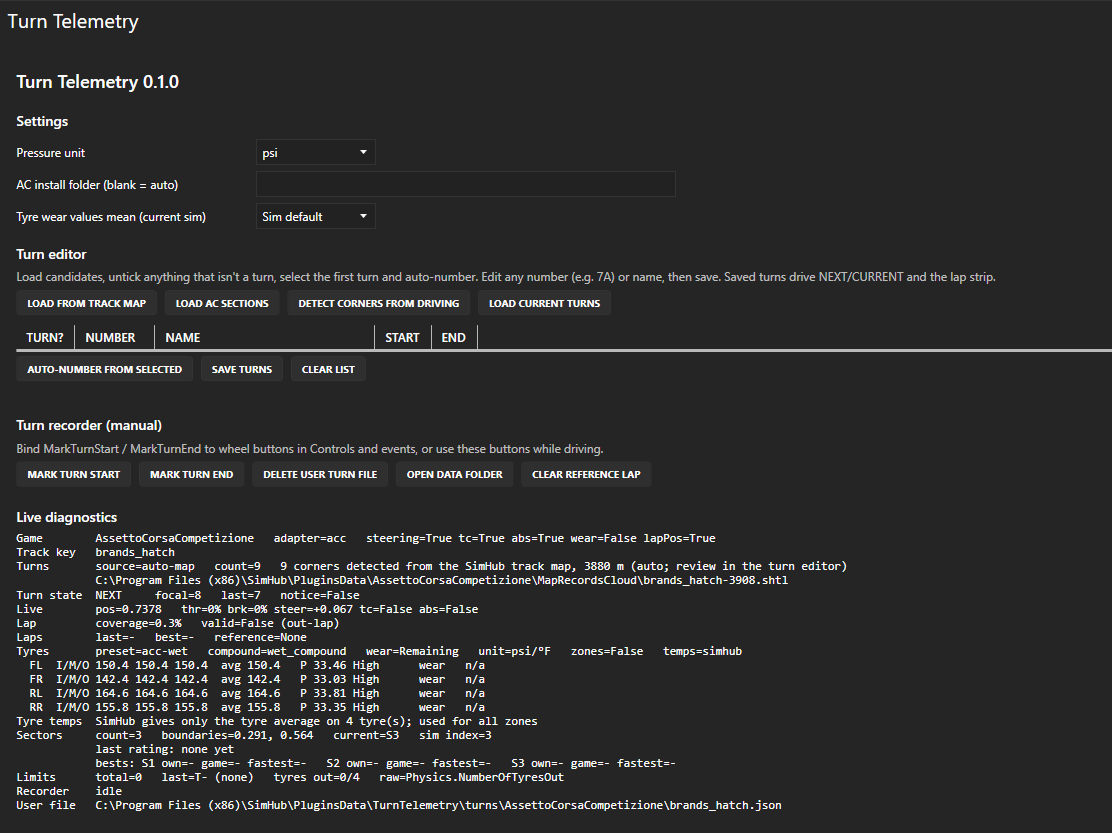
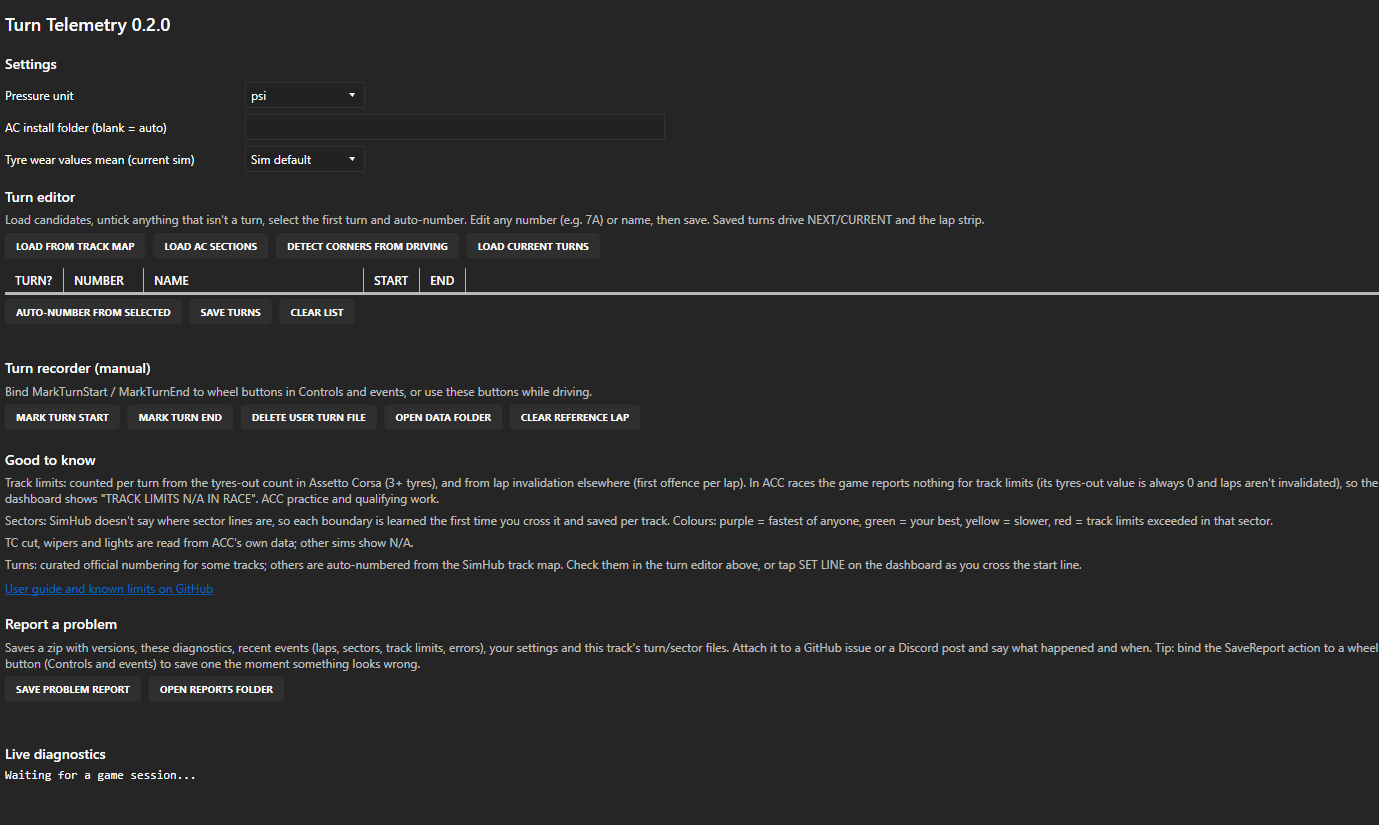
v0.2.1: problem reports
A "Save problem report" button (and SaveReport action for a wheel button)
writes a zip with versions, live diagnostics, the last 500 plugin events,
settings, the track's turn/sector files and Turn Telemetry's SimHub log
lines, with the Windows user name masked. Updated settings screenshot.

Changed region(s): [[0.0, 0.0, 1.0, 0.9697], [0.1835, 0.1818, 0.2446, 0.2121]]

diff --git a/plugin/TurnTelemetry/ReportWriter.cs b/plugin/TurnTelemetry/ReportWriter.cs
@@ -1,0 +1,118 @@
+using System;
+using System.Collections.Generic;
+using System.Diagnostics;
+using System.IO;
+using System.IO.Compression;
+using System.Linq;
+using System.Text;
+using Newtonsoft.Json;
+
+namespace TurnTelemetryHost
+{
+    /// <summary>
+    /// Writes a problem report (a zip) that users can attach to a GitHub issue or a Discord post: versions, the live
+    /// diagnostics, the recent event log, settings, this track's turn and sector files, and Turn Telemetry's lines from
+    /// SimHub's log. User-profile paths are masked; no other drivers' names are included.
+    /// </summary>
+    internal static class ReportWriter
+    {
+        private const int MaxSimHubLogLines = 400;
+
+        public static string ReportsFolder(TurnTelemetry plugin) => Path.Combine(plugin.UserRoot, "reports");
+
+        public static string Write(TurnTelemetry plugin)
+        {
+            var e = plugin.Engine;
+            var folder = ReportsFolder(plugin);
+            Directory.CreateDirectory(folder);
+            var path = Path.Combine(folder, $"TurnTelemetry-report-{DateTime.Now:yyyyMMdd-HHmmss}.zip");
+
+            var report = new StringBuilder();
+            report.AppendLine("Turn Telemetry problem report");
+            report.AppendLine($"Created       {DateTime.Now:yyyy-MM-dd HH:mm:ss}");
+            report.AppendLine($"Plugin        {typeof(TurnTelemetry).Assembly.GetName().Version.ToString(3)}");
+            report.AppendLine($"SimHub        {SimHubVersion()}");
+            report.AppendLine($"Windows       {Environment.OSVersion.VersionString}");
+            report.AppendLine();
+            report.AppendLine("What happened (please describe it in your issue or post, with the time it happened).");
+            report.AppendLine();
+            report.AppendLine("=== Live diagnostics ===");
+            report.AppendLine(SettingsControl.Diagnostics(e));
+            report.AppendLine("=== Recent events (oldest first) ===");
+            foreach (var line in e.Log.Snapshot()) report.AppendLine(line);
+
+            using (var zip = ZipFile.Open(path, ZipArchiveMode.Create))
+            {
+                Add(zip, "report.txt", report.ToString());
+                Add(zip, "settings.json", JsonConvert.SerializeObject(plugin.Settings, Formatting.Indented));
+                AddFile(zip, "turns-user-file.json", e.UserTurnFilePath);
+                AddFile(zip, "sectors.txt", e.SectorFilePath);
+                Add(zip, "simhub-log.txt", SimHubLogLines());
+            }
+            e.Log.Add("problem report saved: " + Path.GetFileName(path));
+            return path;
+        }
+
+        /// <summary>Opens Explorer with the report selected.</summary>
+        public static void Show(string path) => Process.Start("explorer.exe", $"/select,\"{path}\"");
+
+        private static void Add(ZipArchive zip, string name, string text)
+        {
+            using (var writer = new StreamWriter(zip.CreateEntry(name).Open(), new UTF8Encoding(false)))
+                writer.Write(Mask(text ?? ""));
+        }
+
+        private static void AddFile(ZipArchive zip, string name, string path)
+        {
+            if (!string.IsNullOrEmpty(path) && File.Exists(path)) Add(zip, name, File.ReadAllText(path));
+        }
+
+        private static string SimHubVersion()
+        {
+            try
+            {
+                var exe = Path.Combine(AppDomain.CurrentDomain.BaseDirectory, "SimHubWPF.exe");
+                return File.Exists(exe) ? FileVersionInfo.GetVersionInfo(exe).FileVersion : "unknown";
+            }
+            catch (Exception) { return "unknown"; }
+        }
+
+        /// <summary>
+        /// Turn Telemetry's entries from SimHub's log (with any stack trace lines that follow them), most recent last.
+        /// </summary>
+        private static string SimHubLogLines()
+        {
+            var log = Path.Combine(AppDomain.CurrentDomain.BaseDirectory, "Logs", "SimHub.txt");
+            if (!File.Exists(log)) return "SimHub.txt not found";
+            var lines = new List<string>();
+            try
+            {
+                using (var stream = new FileStream(log, FileMode.Open, FileAccess.Read, FileShare.ReadWrite | FileShare.Delete))
+                using (var reader = new StreamReader(stream))
+                {
+                    var inEntry = false;
+                    string line;
+                    while ((line = reader.ReadLine()) != null)
+                    {
+                        // Each log entry starts with "[yyyy-..."; following lines without it belong to the same entry.
+                        if (line.StartsWith("[")) inEntry = line.IndexOf("Turn Telemetry", StringComparison.OrdinalIgnoreCase) >= 0
+                                                            || line.IndexOf("TurnTelemetry", StringComparison.OrdinalIgnoreCase) >= 0;
+                        if (inEntry) lines.Add(line);
+                    }
+                }
+            }
+            catch (IOException ex) { return "SimHub.txt couldn't be read: " + ex.Message; }
+            return string.Join(Environment.NewLine, lines.Skip(Math.Max(0, lines.Count - MaxSimHubLogLines)));
+        }
+
+        /// <summary>Hides the Windows user name in paths.</summary>
+        private static string Mask(string text)
+        {
+            var profile = Environment.GetFolderPath(Environment.SpecialFolder.UserProfile);
+            if (!string.IsNullOrEmpty(profile)) text = text.Replace(profile, "%USERPROFILE%");
+            var user = Environment.UserName;
+            if (!string.IsNullOrEmpty(user)) text = text.Replace(@"\Users\" + user + @"\", @"\Users\%USERNAME%\");
+            return text;
+        }
+    }
+}

diff --git a/plugin/TurnTelemetry.Core/Engine/TelemetryEngine.cs b/plugin/TurnTelemetry.Core/Engine/TelemetryEngine.cs
@@ -2,6 +2,7 @@ using System;
 using System.Collections.Generic;
 using System.IO;
 using System.Linq;
+using TurnTelemetry.Core.Diagnostics;
 using TurnTelemetry.Core.Input;
 using TurnTelemetry.Core.Lap;
 using TurnTelemetry.Core.Sims;
@@ -61,6 +62,9 @@ namespace TurnTelemetry.Core.Engine
             Options = options ?? new EngineOptions();
             _catalog = new TurnCatalog(userRoot, bundled);
             Laps = new LapStore(Options.Bins);
+            Laps.LapCompleted += lap => Log.Add(
+                $"lap {lap.LapNumber} {(lap.LapTimeSeconds > 0 ? StandingsBoard.FormatTime(lap.LapTimeSeconds) : "no time")}  " +
+                $"{(lap.Valid ? "valid" : "invalid (" + lap.InvalidReason + ")")}  coverage {lap.Coverage:P0}");
             Tyres = new TyreModel { PressureUnit = Options.PressureUnit };
             _bundledPresets = LoadPresets(bundled?.Read("data/tyres/presets.json"));
         }
@@ -105,6 +109,12 @@ namespace TurnTelemetry.Core.Engine
         public bool LimitsAvailable => Adapter.Capabilities.TyresOutLimit > 0 || Adapter.Capabilities.InvalidatesLapsInRace
                                        || (_snapshot?.SessionTypeName ?? "").IndexOf("RACE", StringComparison.OrdinalIgnoreCase) < 0;
         private double _nextTyresOutSearch;
+
+        /// <summary>Recent notable events for the problem report (docs/user-guide.md, "Reporting a problem").</summary>
+        public EventLog Log { get; } = new EventLog();
+        private int _loggedIncidents;
+        private string _loggedRating;
+        private string _loggedTurns;
 
         /// <summary>Standings window for the dashboard; the host feeds it from SimHub's opponent list.</summary>
         public StandingsBoard Standings { get; } = new StandingsBoard();
@@ -187,11 +197,25 @@ namespace TurnTelemetry.Core.Engine
                     ReadTyresOut(raw);
                     Limits.Update(Laps.Current, Catalog.Turns, frame.LapPos, TyresOut, Adapter.Capabilities.TyresOutLimit,
                         frame.LapInvalidated, frame.CurrentLapTime.TotalSeconds, now);
+                    if (Limits.Incidents != _loggedIncidents)
+                    {
+                        _loggedIncidents = Limits.Incidents;
+                        Log.Add($"track limits: {Limits.Source} at {frame.LapPos:0.000} -> T{Limits.LastTurn?.Label ?? "?"}  (tyres out {TyresOut?.ToString() ?? "n/a"})");
+                    }
                     Sectors.Observe(s.CurrentSectorIndex, frame.LapPos, frame.Discontinuity);
-                    if (Sectors.Dirty) SaveSectors();
+                    if (Sectors.Dirty)
+                    {
+                        Log.Add($"sector boundaries: {string.Join(", ", Sectors.Boundaries.Select(b => b.ToString("0.000")))} (sim index {s.CurrentSectorIndex})");
+                        SaveSectors();
+                    }
                     SectorTimes.Update(Laps.Current, Sectors, frame.LapPos, frame.CurrentLapTime.TotalSeconds,
                         s.CurrentSectorIndex, frame.Discontinuity, Standings.FastestSector, GameBestSector,
                         Limits.Incidents, frame.InPitLane);
+                    if (SectorTimes.LastRating != _loggedRating)
+                    {
+                        _loggedRating = SectorTimes.LastRating;
+                        Log.Add("sector " + _loggedRating);
+                    }
                 }
             }
         }
@@ -201,6 +225,10 @@ namespace TurnTelemetry.Core.Engine
             GameName = s.GameName;
             TrackKeyId = string.IsNullOrEmpty(s.TrackIdWithConfig) ? s.TrackId : s.TrackIdWithConfig;
             Adapter = SimAdapters.For(s.GameName, _adapters);
+            Log.Add($"session: {s.GameName}  track={TrackKeyId}  car={s.CarModel ?? s.CarId}  type={s.SessionTypeName}  adapter={Adapter.Id}");
+            _loggedIncidents = 0;
+            _loggedRating = null;
+            _loggedTurns = null;
             _normaliser.Reset();
             Laps.Reset(Options.Bins);
             _recorder.Cancel();
@@ -239,6 +267,8 @@ namespace TurnTelemetry.Core.Engine
                 Catalog = new CatalogResult { Detail = "turn data error: " + ex.Message };
             }
             if (!Catalog.Supported && showNotice) NoticeUntil = Now + Options.UnsupportedNoticeSeconds;
+            var turns = $"turns: source={CatalogResult.SourceId(Catalog.Source)}  count={Catalog.Turns.Count}  {Catalog.Detail}";
+            if (turns != _loggedTurns) Log.Add(_loggedTurns = turns);
         }
 
         private void SelectPreset(GameSnapshot s, string compound)
@@ -596,6 +626,7 @@ namespace TurnTelemetry.Core.Engine
             {
                 _nextTyresOutSearch = Now + RawDiscoverySeconds;
                 TyresOutPath = TyresOutPaths.FirstOrDefault(p => raw.Get(p) != null);
+                if (TyresOutPath != null) Log.Add("tyres-out property: " + TyresOutPath);
                 if (TyresOutPath == null)
                 {
                     var paths = raw.FindPaths("TyresOut");
@@ -614,6 +645,10 @@ namespace TurnTelemetry.Core.Engine
         }
 
         private string SectorFile => $"sectors/{TrackKey.Sanitize(GameName)}/{TrackKey.Sanitize(TrackKeyId)}.txt";
+
+        /// <summary>This track's learned sector file, or null before a session.</summary>
+        public string SectorFilePath => GameName == null || string.IsNullOrEmpty(_userRoot) ? null
+            : Path.Combine(new[] { _userRoot }.Concat(SectorFile.Split('/')).ToArray());
 
         private void SaveSectors()
         {

diff --git a/plugin/TurnTelemetry/SettingsControl.cs b/plugin/TurnTelemetry/SettingsControl.cs
@@ -89,6 +89,32 @@ namespace TurnTelemetryHost
             guide.Inlines.Add(link);
             root.Children.Add(guide);
 
+            // --- Problem report
+            root.Children.Add(Heading("Report a problem", 14));
+            root.Children.Add(Note("Saves a zip with versions, these diagnostics, recent events (laps, sectors, track limits, " +
+                                   "errors), your settings and this track's turn/sector files. Attach it to a GitHub issue or " +
+                                   "a Discord post and say what happened and when. Tip: bind the SaveReport action to a wheel " +
+                                   "button (Controls and events) to save one the moment something looks wrong."));
+            var reportStatus = new TextBlock { Opacity = 0.7, Margin = new Thickness(0, 0, 0, 6), TextWrapping = TextWrapping.Wrap };
+            var reportButtons = new WrapPanel();
+            reportButtons.Children.Add(Button("Save problem report", () =>
+            {
+                try
+                {
+                    var path = ReportWriter.Write(_plugin);
+                    reportStatus.Text = "Saved " + path;
+                    ReportWriter.Show(path);
+                }
+                catch (Exception ex) { reportStatus.Text = "Couldn't save the report: " + ex.Message; }
+            }));
+            reportButtons.Children.Add(Button("Open reports folder", () =>
+            {
+                Directory.CreateDirectory(ReportWriter.ReportsFolder(_plugin));
+                Process.Start("explorer.exe", ReportWriter.ReportsFolder(_plugin));
+            }));
+            root.Children.Add(reportButtons);
+            root.Children.Add(reportStatus);
+
             // --- Diagnostics
             root.Children.Add(Heading("Live diagnostics", 14));
             _diagnostics = new TextBlock { FontFamily = new FontFamily("Consolas"), FontSize = 12, TextWrapping = TextWrapping.Wrap };

diff --git a/plugin/TurnTelemetry.Core/Diagnostics/EventLog.cs b/plugin/TurnTelemetry.Core/Diagnostics/EventLog.cs
@@ -1,0 +1,39 @@
+using System;
+using System.Collections.Generic;
+using System.Linq;
+
+namespace TurnTelemetry.Core.Diagnostics
+{
+    /// <summary>
+    /// The most recent notable plugin events (sessions, turn data, laps, sectors, track limits, errors), kept in memory
+    /// for the problem report. Thread-safe: the engine writes from SimHub's data thread, the report reads from the UI.
+    /// </summary>
+    public sealed class EventLog
+    {
+        public const int Capacity = 500;
+
+        private readonly Queue<string> _entries = new Queue<string>();
+        private readonly object _gate = new object();
+        private readonly Func<DateTime> _clock;
+
+        public EventLog(Func<DateTime> clock = null)
+        {
+            _clock = clock ?? (() => DateTime.Now);
+        }
+
+        public void Add(string message)
+        {
+            var line = $"{_clock():HH:mm:ss.f}  {message}";
+            lock (_gate)
+            {
+                _entries.Enqueue(line);
+                while (_entries.Count > Capacity) _entries.Dequeue();
+            }
+        }
+
+        public IReadOnlyList<string> Snapshot()
+        {
+            lock (_gate) return _entries.ToList();
+        }
+    }
+}

diff --git a/plugin/TurnTelemetry/TurnTelemetry.cs b/plugin/TurnTelemetry/TurnTelemetry.cs
@@ -68,6 +68,9 @@ namespace TurnTelemetryHost
             // SET LINE (dashboard button via ButtonItem.TriggerAction; also bindable to a wheel button).
             this.AddAction("SetStartLine", (pm, action) => Engine.SetStartLine(), (pm, action) => { });
             this.AddAction("ResetTurns", (pm, action) => Engine.ResetTurns(), (pm, action) => { });
+
+            // Problem report (also a button in the settings tab); bind to a wheel button to capture the moment.
+            this.AddAction("SaveReport", (pm, action) => Log("problem report saved: " + ReportWriter.Write(this)), (pm, action) => { });
         }
 
         public void DataUpdate(PluginManager pluginManager, ref GameData data)
@@ -92,6 +95,7 @@ namespace TurnTelemetryHost
                 {
                     _lastErrorLog = now;
                     SimHub.Logging.Current.Error("Turn Telemetry: DataUpdate failed", ex);
+                    Engine.Log.Add("error: " + ex.GetType().Name + ": " + ex.Message);
                 }
             }
         }

diff --git a/plugin/TurnTelemetry.Tests/EventLogTests.cs b/plugin/TurnTelemetry.Tests/EventLogTests.cs
@@ -1,0 +1,20 @@
+using System;
+using TurnTelemetry.Core.Diagnostics;
+using Xunit;
+
+namespace TurnTelemetry.Tests
+{
+    public class EventLogTests
+    {
+        [Fact]
+        public void Keeps_the_most_recent_entries_with_timestamps()
+        {
+            var log = new EventLog(() => new DateTime(2026, 10, 3, 14, 5, 9, 300));
+            for (var i = 0; i < EventLog.Capacity + 10; i++) log.Add("event " + i);
+            var entries = log.Snapshot();
+            Assert.Equal(EventLog.Capacity, entries.Count);
+            Assert.Equal("14:05:09.3  event 10", entries[0]);
+            Assert.EndsWith("event " + (EventLog.Capacity + 9), entries[entries.Count - 1]);
+        }
+    }
+}

diff --git a/tools/build_dash.py b/tools/build_dash.py
@@ -19,7 +19,7 @@ from dashlib import (track_map, ABS, ACCENT, BRAKE, CENTER, CLEAR, CURRENT, GUID
 ROOT = Path(__file__).resolve().parent.parent
 NAME = 'TurnTelemetry'
 OUT = ROOT / 'dash' / NAME
-VERSION = '0.2.0'
+VERSION = '0.2.1'
 CONTRACT = 2
 
 W, H = 1920, 1080

diff --git a/docs/user-guide.md b/docs/user-guide.md
@@ -100,7 +100,7 @@ To fix numbering:
 
 Open **Turn Telemetry** in SimHub's left menu. The **Live diagnostics** panel at the bottom shows what the plugin sees.
 
-![Plugin settings and live diagnostics](images/screenshot-plugin-settings.png)
+![Live diagnostics during an ACC session](images/screenshot-diagnostics.png)
 
 | Symptom | Check |
 | --- | --- |
@@ -110,4 +110,19 @@ Open **Turn Telemetry** in SimHub's left menu. The **Live diagnostics** panel at
 | No track limits | The `Limits` line: `available=False` means an ACC race (see above). In AC, `tyres out` should change when you go off |
 | Turn numbers wrong | Tap **SET LINE** at the start line, or use the turn editor |
 
-To report a problem, open an [issue](https://github.com/StormFuel/simhub-turns-dash/issues) with a copy of the **Live diagnostics** text.
+## Reporting a problem
+
+1. In SimHub, open **Turn Telemetry** in the left menu and click **Save problem report**. Explorer opens with the report selected, for example `TurnTelemetry-report-20261003-141502.zip`.
+2. Attach it to a [GitHub issue](https://github.com/StormFuel/simhub-turns-dash/issues) or your Discord post. Say what happened, roughly when, and on which lap or corner.
+
+**Capturing it in the moment:** bind the **SaveReport** action to a wheel button (SimHub **Controls and events**, under Turn Telemetry). Pressing it saves a report straight away, without leaving the car. Reports are kept in `SimHub\PluginsData\TurnTelemetry
+eports`.
+
+**What's in a report:**
+- plugin, SimHub and Windows versions;
+- the live diagnostics;
+- the last 500 plugin events (sessions, turn data used, laps with validity, sector boundaries and ratings, track-limit events, errors);
+- your plugin settings and this track's turn and sector files;
+- Turn Telemetry's lines from SimHub's log.
+
+Your Windows user name is masked in file paths, and no other drivers' names are included.

diff --git a/docs/architecture.md b/docs/architecture.md
@@ -273,6 +273,8 @@ The dashboard depends on these names. Changing one is a breaking change and need
 | Recorder | `Recorder.Status` |
 | *Planned (full-lap renderer)* | A: `Trace.Lap.Image`, `Trace.Revision`. C: `Lap.Cur.<ch>.<i>`, `Lap.Ref.<ch>.<i>`, `Lap.Evt.<i>`. Added when S1/S3 picks one. |
 
+**Problem report.** `EventLog` (Core) keeps the last 500 notable events (session, turn source, laps, sector boundaries and ratings, track-limit events, errors). `ReportWriter` (host) zips it with versions, the live diagnostics, settings, the track's turn/sector files and Turn Telemetry's SimHub log lines into `PluginsData/TurnTelemetry/reports/`, masking the Windows user name. Triggered by the settings-tab button or the `SaveReport` action.
+
 **Actions.** These can also be bound to wheel buttons under SimHub *Controls and events*:
 
 - `TurnTelemetry.MarkTurnStart`, `TurnTelemetry.MarkTurnEnd`, `TurnTelemetry.ClearReferenceLap`

diff --git a/README.md b/README.md
@@ -43,9 +43,10 @@ Uninstall with `Uninstall.cmd`. If you'd rather install by hand, the [user guide
 - **Settings:** pressure unit and tyre wear meaning.
 - **Turn editor:** fix corner numbering and names.
 - **Good to know:** what each sim supports.
-- **Live diagnostics:** what the plugin sees, useful when reporting an issue.
+- **Report a problem:** saves a zip to attach to an issue or Discord post; see [Reporting a problem](docs/user-guide.md#reporting-a-problem).
+- **Live diagnostics:** what the plugin sees.
 
-![Turn Telemetry plugin settings and live diagnostics](docs/images/screenshot-plugin-settings.png)
+![Turn Telemetry plugin settings](docs/images/screenshot-plugin-settings.png)
 
 ## Roadmap
 
